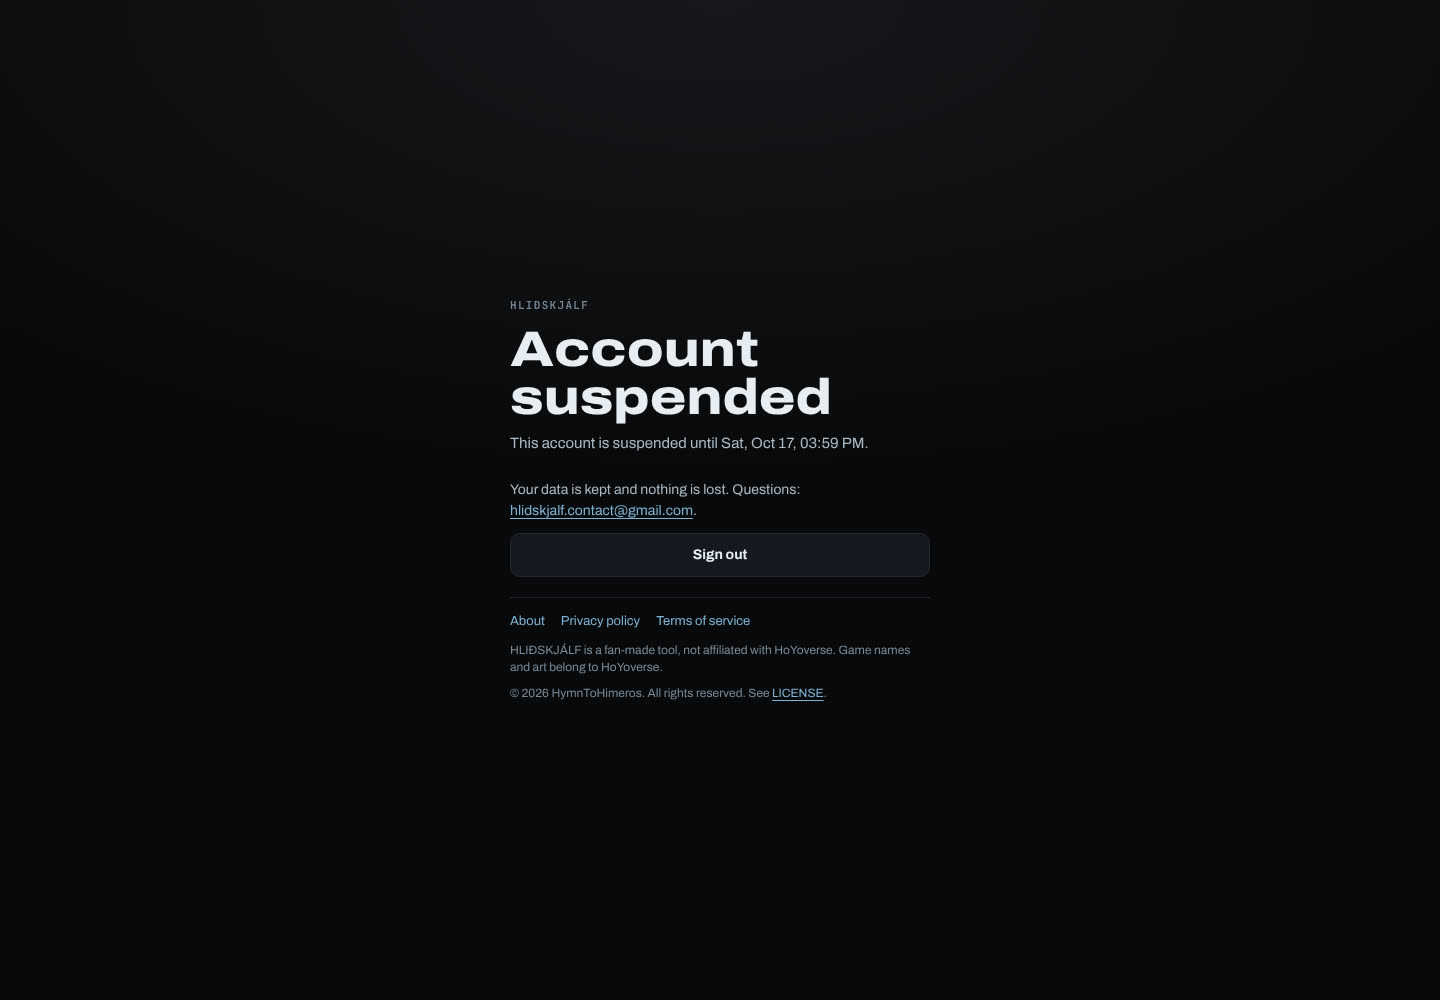
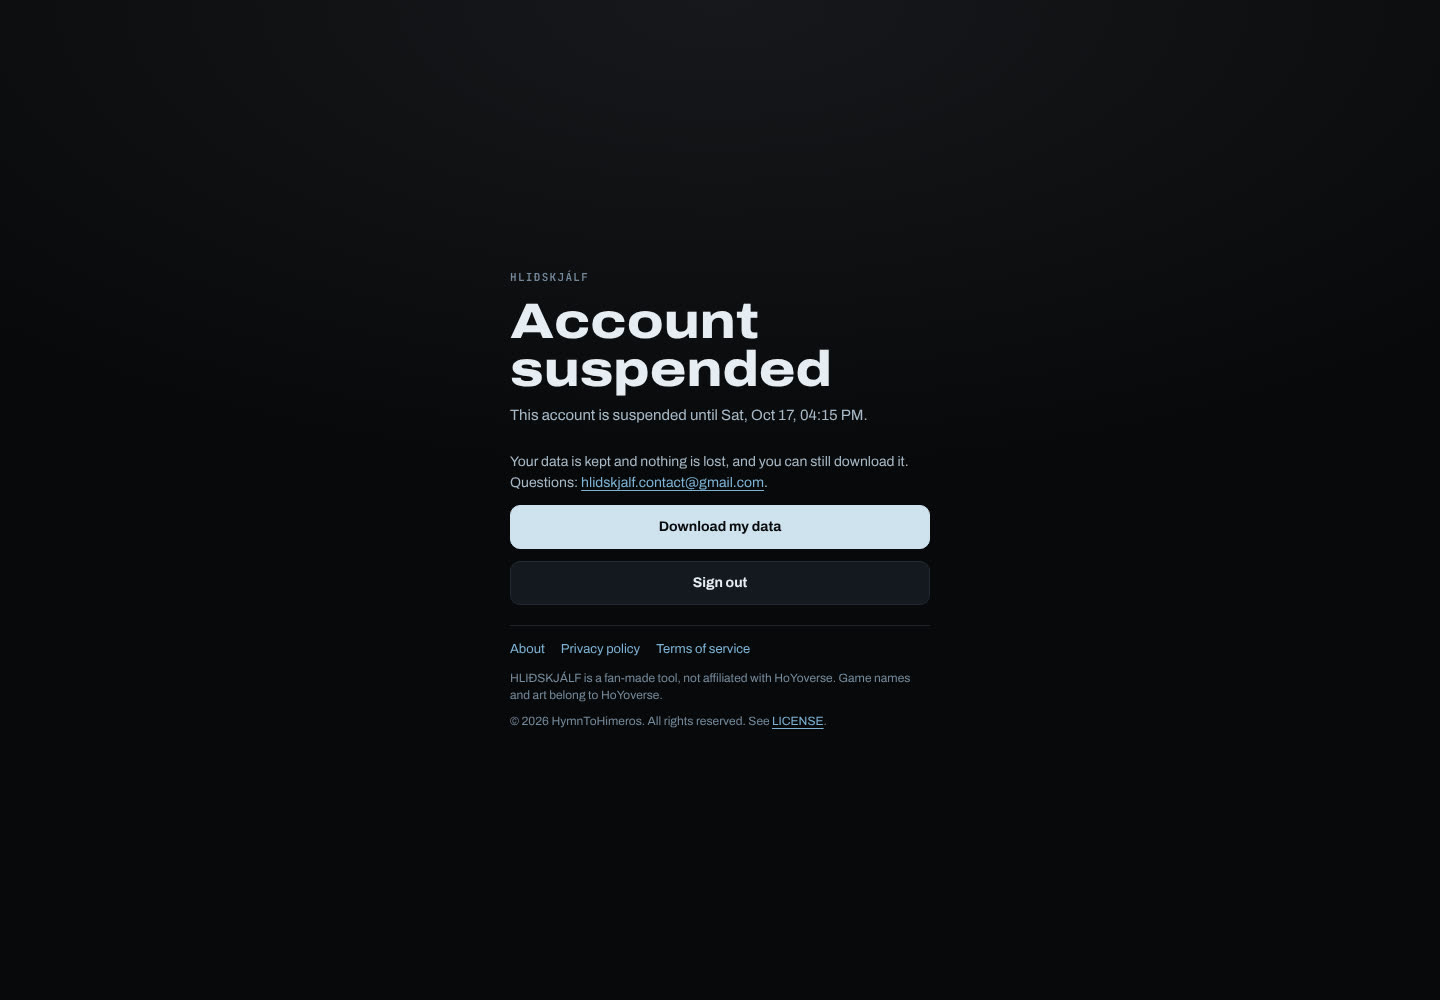
Banned accounts can still download their data; no sign-in ban (T60b)
The privacy page promises export any time, so a banned or removed account can still sign
in, sees the suspended screen with Download my data, and nothing else. Supabase Auth's ban
would block that sign-in, so it isn't used: RLS on every table and requireUser in every
server function enforce the ban; only export-data allows banned accounts (read-only, own
rows), and a test checks no other function does. The owner's actions call public.moderate
directly, so the separate moderate function is gone.

Claude-Session: https://claude.ai/code/session_01JhX321c2CZBUjDK5Z6yXKX

Changed region(s): [[0.3438, 0.279, 0.6562, 0.589], [0.3438, 0.62, 0.625, 0.744]]

diff --git a/src/core/auth/Suspended.tsx b/src/core/auth/Suspended.tsx
@@ -1,3 +1,4 @@
+import { useState } from 'react';
 import { formatDateTime } from '../time/reset';
 import { Button } from '../ui/Button';
 import { LegalLinks } from './SignIn';
@@ -9,10 +10,35 @@ export const CONTACT_EMAIL = 'hlidskjalf.contact@gmail.com';
 /**
  * A suspended account (T60b): calm, plain, no blame. Shown instead of the app while a ban
  * runs, and on the sign-in screen when signing in was refused for a ban. The server refuses
- * the account's data either way. `until` null = we don't know (sign-in refused), Infinity = no end set.
+ * the account's data either way, except Export my data: the privacy page promises it any time.
+ * `until` null = we don't know (sign-in refused), Infinity = no end set.
  */
-export function Suspended({ until, onSignOut }: { until: number | null; onSignOut?: (() => void) | undefined }) {
+export function Suspended({
+  until,
+  onSignOut,
+  onDownload,
+}: {
+  until: number | null;
+  onSignOut?: (() => void) | undefined;
+  /** Downloads the account's own data (export-data allows banned accounts, read-only). */
+  onDownload?: (() => Promise<void>) | undefined;
+}) {
+  const [busy, setBusy] = useState(false);
+  const [note, setNote] = useState<string | null>(null);
   const when = until === null ? null : until === Infinity ? 'until further notice' : `until ${formatDateTime(until)}`;
+  const download = async () => {
+    if (!onDownload) return;
+    setBusy(true);
+    setNote(null);
+    try {
+      await onDownload();
+      setNote('Your data is downloading.');
+    } catch (e) {
+      setNote(e instanceof Error ? e.message : 'The download didn’t work. Try again in a moment.');
+    } finally {
+      setBusy(false);
+    }
+  };
   return (
     <main className={s.page}>
       <div className={s.card} role="alert" aria-labelledby="suspended-title">
@@ -22,8 +48,18 @@ export function Suspended({ until, onSignOut }: { until: number | null; onSignOu
         </h1>
         <p className={s.lead}>This account is suspended{when ? ` ${when}` : ''}.</p>
         <p className={s.about}>
-          Your data is kept and nothing is lost. Questions: <a href={`mailto:${CONTACT_EMAIL}`}>{CONTACT_EMAIL}</a>.
+          Your data is kept and nothing is lost{onDownload ? ', and you can still download it' : ''}. Questions: <a href={`mailto:${CONTACT_EMAIL}`}>{CONTACT_EMAIL}</a>.
         </p>
+        {onDownload && (
+          <Button variant="primary" className={s.wide} disabled={busy} onClick={() => void download()}>
+            {busy ? 'Preparing…' : 'Download my data'}
+          </Button>
+        )}
+        {note && (
+          <p className={s.about} role="status">
+            {note}
+          </p>
+        )}
         {onSignOut && (
           <Button className={s.wide} onClick={onSignOut}>
             Sign out

diff --git a/tests/requireUser.test.ts b/tests/requireUser.test.ts
@@ -28,17 +28,35 @@ describe('requireUser', () => {
   it('refuses a banned account, even with a session from before the ban (T60b)', async () => {
     const now = Date.parse('2026-10-11T12:00:00Z');
     // Auth's own ban…
-    expect(await requireUser(`Bearer ${JWT}`, env, auth(200, { id: 'u1', role: 'authenticated', banned_until: '2026-10-12T00:00:00Z' }), now)).toEqual({ ok: false, banned: true });
+    expect(await requireUser(`Bearer ${JWT}`, env, auth(200, { id: 'u1', role: 'authenticated', banned_until: '2026-10-12T00:00:00Z' }), { now })).toEqual({ ok: false, banned: true });
     // …a ban that already ran out doesn't count…
     const past = (url: string) => (url.endsWith('/rpc/is_banned') ? { ok: true, json: async () => false } : { ok: true, json: async () => ({ id: 'u1', role: 'authenticated', banned_until: '2026-10-01T00:00:00Z' }) });
-    expect(await requireUser(`Bearer ${JWT}`, env, async (u) => past(u), now)).toEqual({ ok: true, userId: 'u1' });
+    expect(await requireUser(`Bearer ${JWT}`, env, async (u) => past(u), { now })).toEqual({ ok: true, userId: 'u1' });
     // …and HLITH's ban, asked as the caller.
     const calls: { url: string; method?: string }[] = [];
     const hlith = async (url: string, init: { method?: string }) => {
       calls.push({ url, method: init.method });
       return url.endsWith('/rpc/is_banned') ? { ok: true, json: async () => true } : { ok: true, json: async () => ({ id: 'u1', role: 'authenticated' }) };
     };
-    expect(await requireUser(`Bearer ${JWT}`, env, hlith, now)).toEqual({ ok: false, banned: true });
+    expect(await requireUser(`Bearer ${JWT}`, env, hlith, { now })).toEqual({ ok: false, banned: true });
     expect(calls.at(-1)).toEqual({ url: 'https://p.supabase.co/rest/v1/rpc/is_banned', method: 'POST' });
+    // Only Export my data lets a banned account through, to download its own data.
+    expect(await requireUser(`Bearer ${JWT}`, env, hlith, { now, allowBanned: true })).toEqual({ ok: true, userId: 'u1', banned: true });
+  });
+
+  it('only Export my data lets banned accounts through; every other server function refuses them', async () => {
+    const { readdirSync, readFileSync } = await import('node:fs');
+    const { resolve } = await import('node:path');
+    const dir = resolve(__dirname, '../supabase/functions');
+    const users = readdirSync(dir).filter((f) => !f.startsWith('_')).filter((f) => {
+      try {
+        return readFileSync(resolve(dir, f, 'index.ts'), 'utf8').includes('requireUser(');
+      } catch {
+        return false;
+      }
+    });
+    const allowing = users.filter((f) => readFileSync(resolve(dir, f, 'index.ts'), 'utf8').includes('allowBanned: true'));
+    expect(users.length).toBeGreaterThan(4);
+    expect(allowing).toEqual(['export-data']);
   });
 });

diff --git a/supabase/functions/_shared/requireUser.ts b/supabase/functions/_shared/requireUser.ts
@@ -5,6 +5,7 @@
  *
  * A banned account is refused too (T60b), even with a session from before the ban: Auth's
  * own ban (banned_until on the user) and HLITH's (public.is_banned(), asked as the caller).
+ * Only Export my data lets a banned account through (allowBanned), to download its own data.
  */
 type Fetch = (
   url: string,
@@ -15,8 +16,9 @@ export async function requireUser(
   authorization: string | null,
   env: { url: string | undefined; key: string | undefined },
   fetchFn: Fetch,
-  now = Date.now(),
-): Promise<{ ok: true; userId: string } | { ok: false; banned?: true }> {
+  opts: { now?: number; allowBanned?: boolean } = {},
+): Promise<{ ok: true; userId: string; banned?: true } | { ok: false; banned?: true }> {
+  const now = opts.now ?? Date.now();
   const token = authorization?.match(/^Bearer\s+(.+)$/i)?.[1];
   // A real user token is a JWT (three dot-separated parts); the public key is not.
   if (!token || token.split('.').length !== 3 || !env.url || !env.key) return { ok: false };
@@ -26,9 +28,12 @@ export async function requireUser(
     if (!res.ok) return { ok: false };
     const user = (await res.json()) as { id?: unknown; role?: unknown; banned_until?: unknown };
     if (typeof user.id !== 'string' || user.role !== 'authenticated') return { ok: false };
-    if (typeof user.banned_until === 'string' && Date.parse(user.banned_until) > now) return { ok: false, banned: true };
-    const ban = await fetchFn(`${env.url}/rest/v1/rpc/is_banned`, { method: 'POST', headers: { ...headers, 'Content-Type': 'application/json' }, body: '{}' });
-    if (ban.ok && (await ban.json()) === true) return { ok: false, banned: true };
+    const banned = async () => {
+      if (typeof user.banned_until === 'string' && Date.parse(user.banned_until) > now) return true;
+      const ban = await fetchFn(`${env.url}/rest/v1/rpc/is_banned`, { method: 'POST', headers: { ...headers, 'Content-Type': 'application/json' }, body: '{}' });
+      return ban.ok && (await ban.json()) === true;
+    };
+    if (await banned()) return opts.allowBanned ? { ok: true, userId: user.id, banned: true } : { ok: false, banned: true };
     return { ok: true, userId: user.id };
   } catch {
     return { ok: false };

diff --git a/src/tools/owner/usersData.ts b/src/tools/owner/usersData.ts
@@ -4,8 +4,8 @@ import { AVATAR_BUCKET } from '../account/useProfile';
 
 /*
  * Owner console → Users (T60b): the server calls. owner_users and owner_moderation_log
- * (migration 0015) refuse anyone but the owner and never return email addresses; actions go
- * through the owner-only moderate server function, which also bans the sign-in itself.
+ * (migration 0015) refuse anyone but the owner and never return email addresses; moderate
+ * applies every rule (owner only, never yourself or another owner) and writes the log.
  */
 
 export type Action = 'silence' | 'lift_silence' | 'ban' | 'unban' | 'remove' | 'undo_remove';
@@ -58,15 +58,8 @@ export const serverUsers: UsersApi | null = client
       users: async () => (await rpc<UserRow[] | null>('owner_users')) ?? [],
       log: async () => (await rpc<LogRow[] | null>('owner_moderation_log')) ?? [],
       act: async (req) => {
-        const { data, error } = await client.functions.invoke('moderate', { body: req });
-        const said = data && typeof data === 'object' && 'error' in data ? String((data as { error: unknown }).error) : null;
-        if (error || said) {
-          // The function's own message says what went wrong, when there is one.
-          let msg = said;
-          const ctx = (error as { context?: { json?: () => Promise<unknown> } } | null)?.context;
-          if (!msg && ctx?.json) msg = await ctx.json().then((b) => (b && typeof b === 'object' && 'error' in b ? String((b as { error: unknown }).error) : null), () => null);
-          throw new Error(msg ?? error?.message ?? 'That didn’t work.');
-        }
+        const { error } = await client.rpc('moderate', { p_user: req.user_id, p_action: req.action, p_hours: req.hours, p_reason: req.reason });
+        if (error) throw new Error(error.message);
       },
       avatarUrl: (path) => (path ? client.storage.from(AVATAR_BUCKET).getPublicUrl(path).data.publicUrl : null),
     }

diff --git a/src/App.tsx b/src/App.tsx
@@ -16,6 +16,18 @@ import { Preview } from './core/ui/Preview';
 
 // An invite link (T60) is taken out of the address and kept on this device until it is used.
 const invitedAtStart = typeof window !== 'undefined' ? captureInvite() : null;
+/** Export my data (R56) as a file. A suspended account can still use it (T60b): its own data, read-only. */
+async function downloadMyData(client: NonNullable<typeof backend>): Promise<void> {
+  const { data, error } = await client.functions.invoke('export-data', { body: {} });
+  if (error) throw new Error('The download didn’t work. Try again in a moment.');
+  const url = URL.createObjectURL(new Blob([JSON.stringify(data, null, 2)], { type: 'application/json' }));
+  const link = document.createElement('a');
+  link.href = url;
+  link.download = `HLITH-account-${new Date().toISOString().slice(0, 10)}.json`;
+  link.click();
+  setTimeout(() => URL.revokeObjectURL(url), 1_000);
+}
+
 // A sign-in refused because the account is suspended comes back with the reason in the address (T60b).
 const refusedAsBanned = typeof window !== 'undefined' && bannedInAddress(window.location.search, window.location.hash);
 
@@ -110,7 +122,7 @@ function Root() {
 
   const client = backend;
   if (client && session === undefined) return null; // checking sign-in; keeps the page from flashing
-  if (client && session && banned) return <Suspended until={standing.bannedUntil} onSignOut={() => void signOut(client)} />;
+  if (client && session && banned) return <Suspended until={standing.bannedUntil} onSignOut={() => void signOut(client)} onDownload={() => downloadMyData(client)} />;
   if (client && session === null && refusedAsBanned) return <Suspended until={null} />;
   if (client && session === null) {
     return <SignIn onProvider={(p) => signInWith(client, p)} onEmail={(email) => sendEmailLink(client, email)} invited={invitedAtStart !== null} />;

diff --git a/config/legal/content.ts b/config/legal/content.ts
@@ -194,7 +194,7 @@ export const TERMS: LegalPage = {
 
     { h: '6. Moderation' },
     {
-      p: `To keep HLIÐSKJÁLF safe for everyone, the owner may, for accounts that break these rules or harm others: **silence** an account for a time (it keeps using its own HLIÐSKJÁLF, but can’t share or show up in anything others see), **suspend** it for a time or for good (it can’t use HLIÐSKJÁLF; its data is kept), or **remove** it (suspended now and deleted after 30 days, the same as deleting it yourself; this can be undone until then). Questions or disagreements: ${CONTACT}.`,
+      p: `To keep HLIÐSKJÁLF safe for everyone, the owner may, for accounts that break these rules or harm others: **silence** an account for a time (it keeps using its own HLIÐSKJÁLF, but can’t share or show up in anything others see), **suspend** it for a time or for good (it can’t use HLIÐSKJÁLF, but its data is kept and it can still download it), or **remove** it (suspended now and deleted after 30 days, the same as deleting it yourself; this can be undone until then). Questions or disagreements: ${CONTACT}.`,
     },
 
     { h: '7. Your content' },

diff --git a/src/core/auth/Suspended.test.tsx b/src/core/auth/Suspended.test.tsx
@@ -18,6 +18,15 @@ describe('a suspended account (T60b)', () => {
     expect(onSignOut).toHaveBeenCalled();
   });
 
+  it('can still download its own data (the privacy page promises export any time)', async () => {
+    const onDownload = vi.fn(async () => undefined);
+    render(<Suspended until={Infinity} onDownload={onDownload} onSignOut={() => {}} />);
+    expect(screen.getByText(/you can still download it/)).toBeInTheDocument();
+    fireEvent.click(screen.getByRole('button', { name: 'Download my data' }));
+    expect(await screen.findByRole('status')).toHaveTextContent('Your data is downloading.');
+    expect(onDownload).toHaveBeenCalled();
+  });
+
   it('a permanent ban reads “until further notice”; a refused sign-in says only that it is suspended', () => {
     const { unmount } = render(<Suspended until={Infinity} />);
     expect(screen.getByText('This account is suspended until further notice.')).toBeInTheDocument();

diff --git a/supabase/functions/export-data/index.ts b/supabase/functions/export-data/index.ts
@@ -18,7 +18,8 @@ Deno.serve(async (req) => {
   if (req.method === 'OPTIONS') return new Response('ok', { headers: cors });
   if (req.method !== 'POST') return json({ error: 'POST only' }, 405);
   const url = Deno.env.get('SUPABASE_URL');
-  const user = await requireUser(req.headers.get('Authorization'), { url, key: Deno.env.get('SUPABASE_ANON_KEY') }, (u, init) => fetch(u, init));
+  // A banned or removed account may still download its own data (T60b): read-only, its rows only.
+  const user = await requireUser(req.headers.get('Authorization'), { url, key: Deno.env.get('SUPABASE_ANON_KEY') }, (u, init) => fetch(u, init), { allowBanned: true });
   if (!user.ok) return json({ error: 'Sign in to export your data.' }, 401);
   const serviceKey = Deno.env.get('SUPABASE_SERVICE_ROLE_KEY');
   if (!url || !serviceKey) return json({ error: 'The server is missing its settings.' }, 500);

diff --git a/src/tools/owner/Users.tsx b/src/tools/owner/Users.tsx
@@ -34,7 +34,7 @@ const ACTION_TEXT: Record<Action, { title: (n: string) => string; body: string; 
   lift_silence: { title: (n) => `Lift the silence on ${n}?`, body: 'They can share and show up again straight away.', button: 'Lift silence' },
   ban: {
     title: (n) => `Ban ${n}?`,
-    body: 'They can’t use HLITH at all, and see a calm “suspended” screen with your contact address. Their data is kept.',
+    body: 'They can’t use HLITH at all, and see a calm “suspended” screen with your contact address. Their data is kept, and they can still download it.',
     button: 'Ban',
     durations: [
       { hours: 24, label: '24 hours' },

diff --git a/docs/progress/2026-10-11-frame-t60b-moderation.md b/docs/progress/2026-10-11-frame-t60b-moderation.md
@@ -14,15 +14,18 @@ Owner: "see who also joined … instant ban/remove or silence … not an iron fi
     status), `owner_moderation_log()`, `moderate()` (owner only, never self or another owner,
     24 h / 7 days / no end). Remove = permanent ban + the normal 30-day deletion request
     ('removed-by-owner'); Undo remove cancels both. Tested on local Postgres.
-- **moderate** server function (owner only): runs `public.moderate` as the caller, then sets
-  Supabase Auth's ban (`ban_duration`; 876000h = permanent; 'none' lifts it).
+- **No Supabase Auth ban, on purpose** (MANAGER: banned/removed users must still be able to
+  download their data, as the privacy page promises): a banned account can still sign in,
+  sees the suspended screen with **Download my data**, and nothing else works. Enforcement is
+  RLS (every table) + requireUser (every server function); only export-data passes
+  `allowBanned` (read-only, own rows), and a test checks no other function does.
 - **requireUser** (every user-facing server function): refuses banned accounts (Auth's
   banned_until and `is_banned()` asked as the caller).
 - **App**: Owner console → Users (search, sort, confirm with duration + reason, log); a calm
-  "Account suspended until …" screen with the contact address; silenced accounts see "Sharing
+  "Account suspended until …" screen with the contact address and Download my data; silenced accounts see "Sharing
   is paused" in Share and a note on the Community page.
 - Purge removes restrictions and log rows (and the log rows the account wrote); backups copy
   them; export includes them. Terms: new "6. Moderation". Privacy: what the owner sees, and the log.
-- After merge: apply 0015 if skipped; deploy **moderate** (new) and every function using
-  requireUser (assistant, delete-account, evening-message, export-data, gacha-import,
-  hoyolab), plus purge-accounts and backup.
+- After merge: apply 0015 if skipped; deploy every function using requireUser (assistant,
+  delete-account, evening-message, export-data, gacha-import, hoyolab), plus purge-accounts
+  and backup.

diff --git a/docs/ROADMAP.md b/docs/ROADMAP.md
@@ -111,7 +111,7 @@ Who builds what: see `docs/WORKSTREAMS.md`.
 
 ## Phase 8 · Community (planned: the owner wants members first)
 - [x] R66 ★ Community groundwork: tester role on the server, one-time invite links, Owner console → Members, members-only Community page · proof: `supabase/migrations/0014_community_members.sql`, `src/tools/community/CommunityPage.tsx`, `src/tools/owner/Members.tsx`, `tests/community.test.ts`
-- [x] R74 ★ Owner console → Users: everyone who joined (no emails), silence, ban, remove with undo, action log · proof: `supabase/migrations/0015_moderation.sql`, `supabase/functions/moderate/index.ts`, `src/tools/owner/Users.tsx`, `tests/moderation.test.ts`
+- [x] R74 ★ Owner console → Users: everyone who joined (no emails), silence, ban, remove with undo, action log · proof: `supabase/migrations/0015_moderation.sql`, `src/core/auth/Suspended.tsx`, `src/tools/owner/Users.tsx`, `tests/moderation.test.ts`
 - [ ] R67 The HLIÐSKJÁLF Discord inside the Community page (WidgetBot) · proof: `src/tools/community/DiscordEmbed.tsx`
 - [ ] R68 Share to Discord: cards for teams, pulls and profiles · proof: `src/tools/community/ShareToDiscord.tsx`
 - [ ] R69 Discord Linked Roles from HLITH (tester, badges) · proof: `supabase/functions/discord-linked-roles/index.ts`
